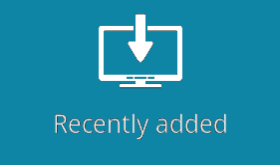
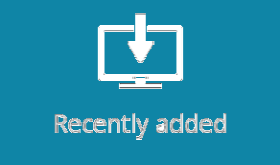
🐛 fix hover of tmp box buttons

diff --git a/app/src/App.cpp b/app/src/App.cpp
@@ -47,6 +47,7 @@ void App::run() {
         for (auto &box : _pages.back()->getBoxes()) {
             for (auto &button : box.getButtons()) {
                 if (button->isHover(pos, windowSize, std::make_tuple(APP_WIDTH, APP_HEIGHT))) {
+                    std::cout << "Hovering over button: " << button->getUuid().toString() << std::endl;
                     graphic->setButtonState(button->getUuid(), true);
                 } else {
                     graphic->setButtonState(button->getUuid(), false);
@@ -127,11 +128,16 @@ void App::addPopUp(const std::shared_ptr<Button> button) {
 }
 
 void App::addBox(const std::shared_ptr<Button> button) {
-    if (DEBUG_ENABLED()) {
-        std::cout << "Adding box: " << button->getTarget() << std::endl;
+    for (auto &box : _boxes) {
+        if (box->getName() == button->getTarget() && _pages.back()->getBoxes().back().getName() != button->getTarget()) {
+            if (DEBUG_ENABLED()) {
+                std::cout << "Adding box: " << button->getTarget() << std::endl;
+            }
+            graphic->loadTempBox(button->getTarget());
+            _pages.back()->addBox(*box);
+            break;
+        }
     }
-    graphic->loadTempBox(button->getTarget());
-    return;
 }
 
 void App::addPage(const std::shared_ptr<Button> button) {

diff --git a/app/Graphic/Graphic.cpp b/app/Graphic/Graphic.cpp
@@ -144,7 +144,7 @@ const void SFMLGraphic::Graphic::addTempBox(const JsonBox &box) {
 const void SFMLGraphic::Graphic::loadTempBox(const std::string &boxName) {
     std::cout << "Loading temp box: " << boxName << std::endl;
     for (const auto &box : _tempBox) {
-        if (box->getName() == boxName) {
+        if (box->getName() == boxName && _box.back()->getName() != boxName) {
             _box.push_back(box);
             return;
         }
